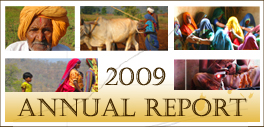
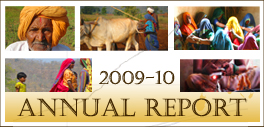
-Annual Report modification

Changed region(s): [[0.0606, 0.4488, 1.0, 0.7323], [0.0, 0.4961, 0.1515, 0.7323]]

diff --git a/templates/static_site/projectprogress.html b/templates/static_site/projectprogress.html
@@ -23,7 +23,7 @@
 {% block mainbodycontentleft %}
 	{% block mainbodycontentleftimg %}
 		<div class='mainbodycontentleftimg'>	
-			<img src="/media/Output/Images/projectprogressimg1.jpg" alt='Project Progress and Results'>
+			<img src="/media/Output/Images/projectprogressimg2.jpg" alt='Project Progress and Results'>
 		</div>	
 	{% endblock mainbodycontentleftimg %}
 	
@@ -52,7 +52,7 @@
 
 			<br/> <br/>	
 
-			The agricultural practices and technologies that are exchanged across the Digital Green network vary based on the local needs and interests of the communities that our partners are working with, but we work together using the data that we capture to focus on those practices provide long-term socioeconomic gains to farmers that adopt them for themselves.  For each practice, checklists are used by select members of the community and our partner staff to verify the adoptions of practices by farmers in the field.  For example, for a video on chemical treatment of tomato seedlings in a nursery bed (see: YouTube video), an adoption of that practice might considered if the dimensions of the nursery bed are maintained, a drainage system is used, and the chemical is applied in the correct quantity and manner.
+			The agricultural practices and technologies that are exchanged across the Digital Green network vary based on the local needs and interests of the communities that our partners are working with, but we work together using the data that we capture to focus on those practices provide long-term socioeconomic gains to farmers that adopt them for themselves.  For each practice, checklists are used by select members of the community and our partner staff to verify the adoptions of practices by farmers in the field.  For example, for a video on chemical treatment of tomato seedlings in a nursery bed (see: <a class='quicklinks' href='www.youtube.com/digitalgreenorg'>YouTube video</a>), an adoption of that practice might considered if the dimensions of the nursery bed are maintained, a drainage system is used, and the chemical is applied in the correct quantity and manner.
  
  			<br/> <br/>	
  
@@ -64,7 +64,7 @@
 
 			<br/> <br/>	
 			
-			Thus far, the project has produced <span class='highlighttext'> 730 videos, operationalized 432 villages, screened 8,754 videos and reached 26,253 farmers. </span>  Over 300 of these videos are available on our website on a Creative Commons license: <a class='quicklinks' href='/'>http://www.digitalgreen.org</a>. Some of the most popular videos include azolla cultivation and feeding, maize seed treatment, soil testing, girdle beetle pest management, cattle vaccination, system of rice intensification, and soybean seed germination test.  Please refer to our Analytics dashboards for the latest statistics on videos produced and screening conducted.  Digital Green's systems engineering team has developed a robust management information system that tracks these aggregate indicators as well as more detailed qualitative and quantitative metrics in geographic-, time-, and partner-based dimensions. 
+			Thus far, the project has produced over <span class='highlighttext'> 700 videos, operationalized over 400 villages, screened over 8,000 videos and reached over 26,000 farmers. </span>  Over 300 of these videos are available on our website on a Creative Commons license: <a class='quicklinks' href='/'>http://www.digitalgreen.org</a>. Some of the most popular videos include azolla cultivation and feeding, maize seed treatment, soil testing, girdle beetle pest management, cattle vaccination, system of rice intensification, and soybean seed germination test.  Please refer to our Analytics dashboards for the latest statistics on videos produced and screening conducted.  Digital Green's systems engineering team has developed a robust management information system that tracks these aggregate indicators as well as more detailed qualitative and quantitative metrics in geographic-, time-, and partner-based dimensions. 
 			
 			<br/> <br/>	
 			

diff --git a/templates/static_site/annualletter.html b/templates/static_site/annualletter.html
@@ -38,7 +38,7 @@
     		Initially, our team members were <a class='quicklinks' href='http://sites.digitalgreen.org/inside-digital-green/updates/december242009-' target='_blank'>embedded</a> in the field offices of our partners.  This proved useful in providing on-site training for our partners as well as ourselves.  As the work gained <a class='quicklinks' href='http://sites.digitalgreen.org/inside-digital-green/updates/march312010-y1q2traction' target='_blank'>traction</a> in the field, we entered into new partnerships through a rigorous <a class='quicklinks' href='/rfa'>due diligence process</a> that emphasized our role as "trainer of trainers" and focused on improving the cost-effectiveness of our partners.  
     		Our team <a class='quicklinks' href='http://sites.digitalgreen.org/inside-digital-green/updates/june292010transition' target='_blank'>transitioned</a> to this model by relocating to <a class='quicklinks' href='/contact'>offices</a> in the state capitals of Madhya Pradesh, Orissa, and Karnataka and providing support to our partners from these hubs.      		
     		<br/>	<br/>
-    		The Digital Green system now extends to over 400 villages and involves 25,000 farmers.  During the last year, over 700 videos have been produced of farmers, by farmers, and for farmers; 8,000 mediated screenings of videos have taken place in these villages; and 6,500 better agricultural techniques have been taken up by farmers on their fields.  As the system has scaled, we have encountered challenges and gained some important <a class='quicklinks' href='/lessonslearned'>learnings</a> .  A key focus area is quality assurance.  We have developed <a class='quicklinks' href='/sop'>standard operating procedures</a> and are strengthening mechanisms for internal audits and third-party certification reviews. 
+    		The Digital Green system now extends to over 400 villages and involves over 26,000 farmers.  During the last year, over 700 videos have been produced of farmers, by farmers, and for farmers; 8,000 mediated screenings of videos have taken place in these villages; and 6,500 better agricultural techniques have been taken up by farmers on their fields.  As the system has scaled, we have encountered challenges and gained some important <a class='quicklinks' href='/lessonslearned'>learnings</a> .  A key focus area is quality assurance.  We have developed <a class='quicklinks' href='/sop'>standard operating procedures</a> and are strengthening mechanisms for internal audits and third-party certification reviews. 
     		<br/> <br/>		
     		Our technology team has built the software platform that powers Digital Green with an open-source data management framework, called <a class='quicklinks' href='/tech'>COCO</a>, which enables rural areas that often have limited Internet connectivity to exchange data with the world and an <a class='quicklinks' href='http://analytics.digitalgreen.org' target='_blank'>Analytics</a> suite of dashboards to better coordinate our operations and to analyze our progress across the country based on time and location.  We also launched a new <a class='quicklinks' href='/' target='_blank'>website</a> and an interface to sort through the expanding <a class='quicklinks' href='/analytics/video_search'>library of videos</a> that our network of partners and communities is producing.  And in the field, we replaced bulky and expensive camcorders, TVs, and DVD players with low-cost, high definition pocket video cameras to capture videos and increasingly brighter, battery-operated pico projectors to disseminate them.
 			<br/>	<br/>

diff --git a/templates/static_site/scalability.html b/templates/static_site/scalability.html
@@ -44,7 +44,7 @@
 			<span class='subheaders'> Monitoring and Evaluation </span>  <br/>
 			Data is central to our ability to achieve the qualitative and quantitative outputs and outcomes that we seek.  Through the Agricultural Technology Adoption Initiative (ATAI), researchers from the University of California, Berkeley and Yale University initiated consultations and field visits in preparation to define metrics and to design protocols for a large- scale randomized controlled trial evaluation of the Digital Green system in comparison to the traditional extension approaches practiced by our partners. 
 			<br/> <br/>
-			To support these efforts, our systems engineering team developed an open-source enterprise resource planning (ERP) system, called COCO (Connect Online, Connect Offline) to manage and support our operations teams' activities across India. The Analytics suite of dashboards that serves as the front-end of our monitoring and evaluation framework is accessible at: http://analytics.digitalgreen.org.  These dashboards give rich, near real-time insight to our work in the field on time-, geographic, and partner-specific dimensions. The dashboard allows us to better sort through our growing library of videos, target interventions based on historical trends, and allows for data exchange among our partners and team members who often operate in areas with limited or no Internet connectivity.  
+			To support these efforts, our systems engineering team developed an open-source enterprise resource planning (ERP) system, called <a class='quicklinks' href='/tech'>COCO (Connect Online, Connect Offline)</a> to manage and support our operations teams' activities across India. The <a class='quicklinks' href='http://analytics.digitalgreen.org' target='_blank'>Analytics</a> suite of dashboards that serves as the front-end of our monitoring and evaluation framework is accessible at: http://analytics.digitalgreen.org.  These dashboards give rich, near real-time insight to our work in the field on time-, geographic, and partner-specific dimensions. The dashboard allows us to better sort through our growing library of videos, target interventions based on historical trends, and allows for data exchange among our partners and team members who often operate in areas with limited or no Internet connectivity.  
 			<br/> <br/>	
 			Partner staff members and community intermediaries at block- and district-levels input data into this system.  Digital Green and partner staff members use control mechanisms to review and verify the accuracy of inputted data through cross-validation of reports as well as random sample inspections in the field.  We have observed that the transparency of our data management framework creates a positive tension amongst the partners that motivates them to ensure the accuracy of the inputted data as well as to do well with respect to their peers.  
 			<br/> <br/>

diff --git a/templates/static_site/annualreport.html b/templates/static_site/annualreport.html
@@ -26,7 +26,7 @@
 {% block mainbodycontent %}	
 	
     <div id='contentdiv1'>
-    	<img src="/media/Output/Images/annualreportimg1.jpg" />
+    	<img src="/media/Output/Images/annualreportimg3.jpg" />
     	
     	<table id='annualreporttable' cellspacing="0" cellpadding="0">
     		<tr>
@@ -35,7 +35,7 @@
     					<a href='/annualletter'> <img src='/media/Output/Images/annualletter3.jpg' alt="" /> </a>
     					<div class='annualreportdesc'>
     						<a class='annualreporttitlelink' href='/annualletter'> INTRODUCTION </a>    						
-    						" We believe that we have established a foundation to exceed the impact that we had originally envisioned " <br/>- Rikin Gandhi, CEO
+    						We believe that we have established a foundation to exceed the impact that we had originally envisioned 
     					</div>	
     				</div>	  
     	  		</td>

diff --git a/media/Output/CSS/annualreport.css b/media/Output/CSS/annualreport.css
@@ -17,7 +17,7 @@
 .contentheadertitlediv				{ width:100%; font-size:1em; font-family:Calibri; font-weight:normal; color:Gray; align:center; padding-bottom:2px; }
 .contentheadertitlediv1				{ font-size:1.2em; font-family:Calibri; font-weight:bold; color:Gray;}
 
-.mainbodycontentleftimg				{ margin-top:3px; width:620px; height:277px; }
+.mainbodycontentleftimg				{ margin-top:3px; width:620px; }
 #presscontent						{ width:100%; margin-top:0px; text-align:center; margin-left:0; margin-right:0%; }
 
 #annualreporttable					{ border-top:1px solid #6e5a0c; border-bottom:1px solid #6e5a0c; align:center; clear:both; margin-top:20px; background-color:#E7F7CF; width:900px; }

diff --git a/templates/static_site/budgetprogress.html b/templates/static_site/budgetprogress.html
@@ -23,7 +23,7 @@
 {% block mainbodycontentleft %}
 	{% block mainbodycontentleftimg %}
 		<div class='mainbodycontentleftimg'>	
-			<img src="/media/Output/Images/budgetimg1.jpg" alt='Budget Progress and Results'>
+			<img src="/media/Output/Images/budgetimg2.jpg" alt='Budget Progress and Results'>
 		</div>	
 	{% endblock mainbodycontentleftimg %}
 	

diff --git a/templates/static_site/base_press.html b/templates/static_site/base_press.html
@@ -193,6 +193,9 @@
 		</div>		
 	</div>
 	
+	<div class='imagelink'>
+		<a href='/annualreport'> <img src="/media/Output/Images/annualreportlinkimg2.jpg" alt='Digital Green Annual Report'> </a>
+	</div>
 	
 		
 {% endblock mainbodycontentright %}	
